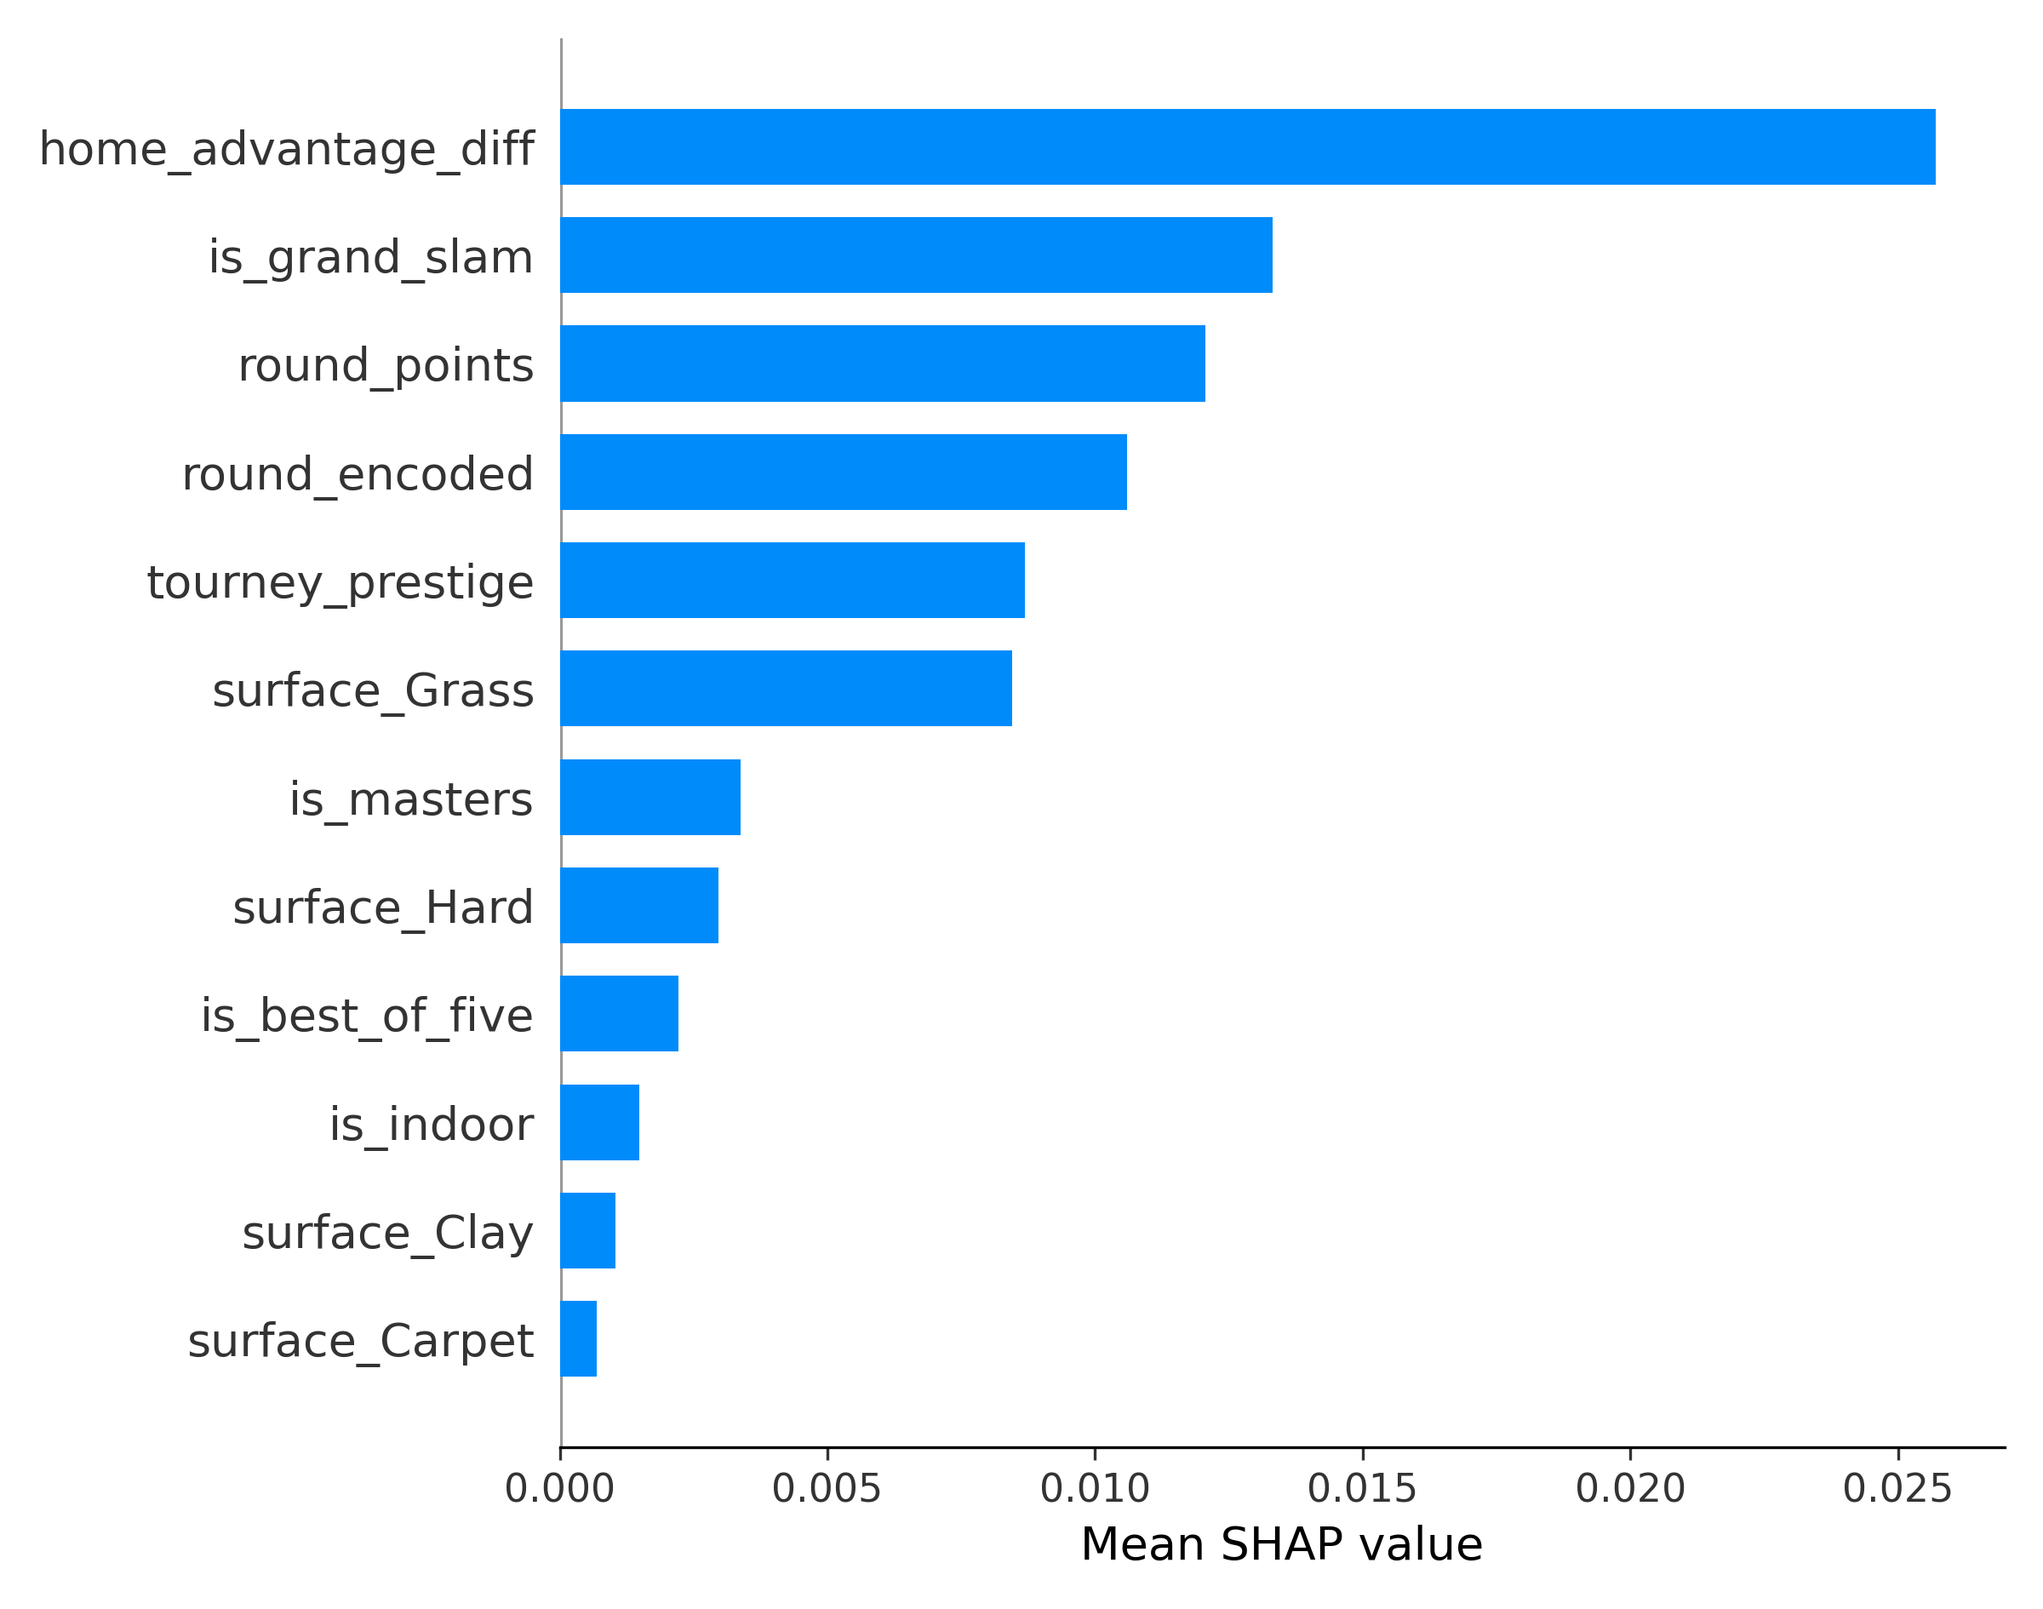
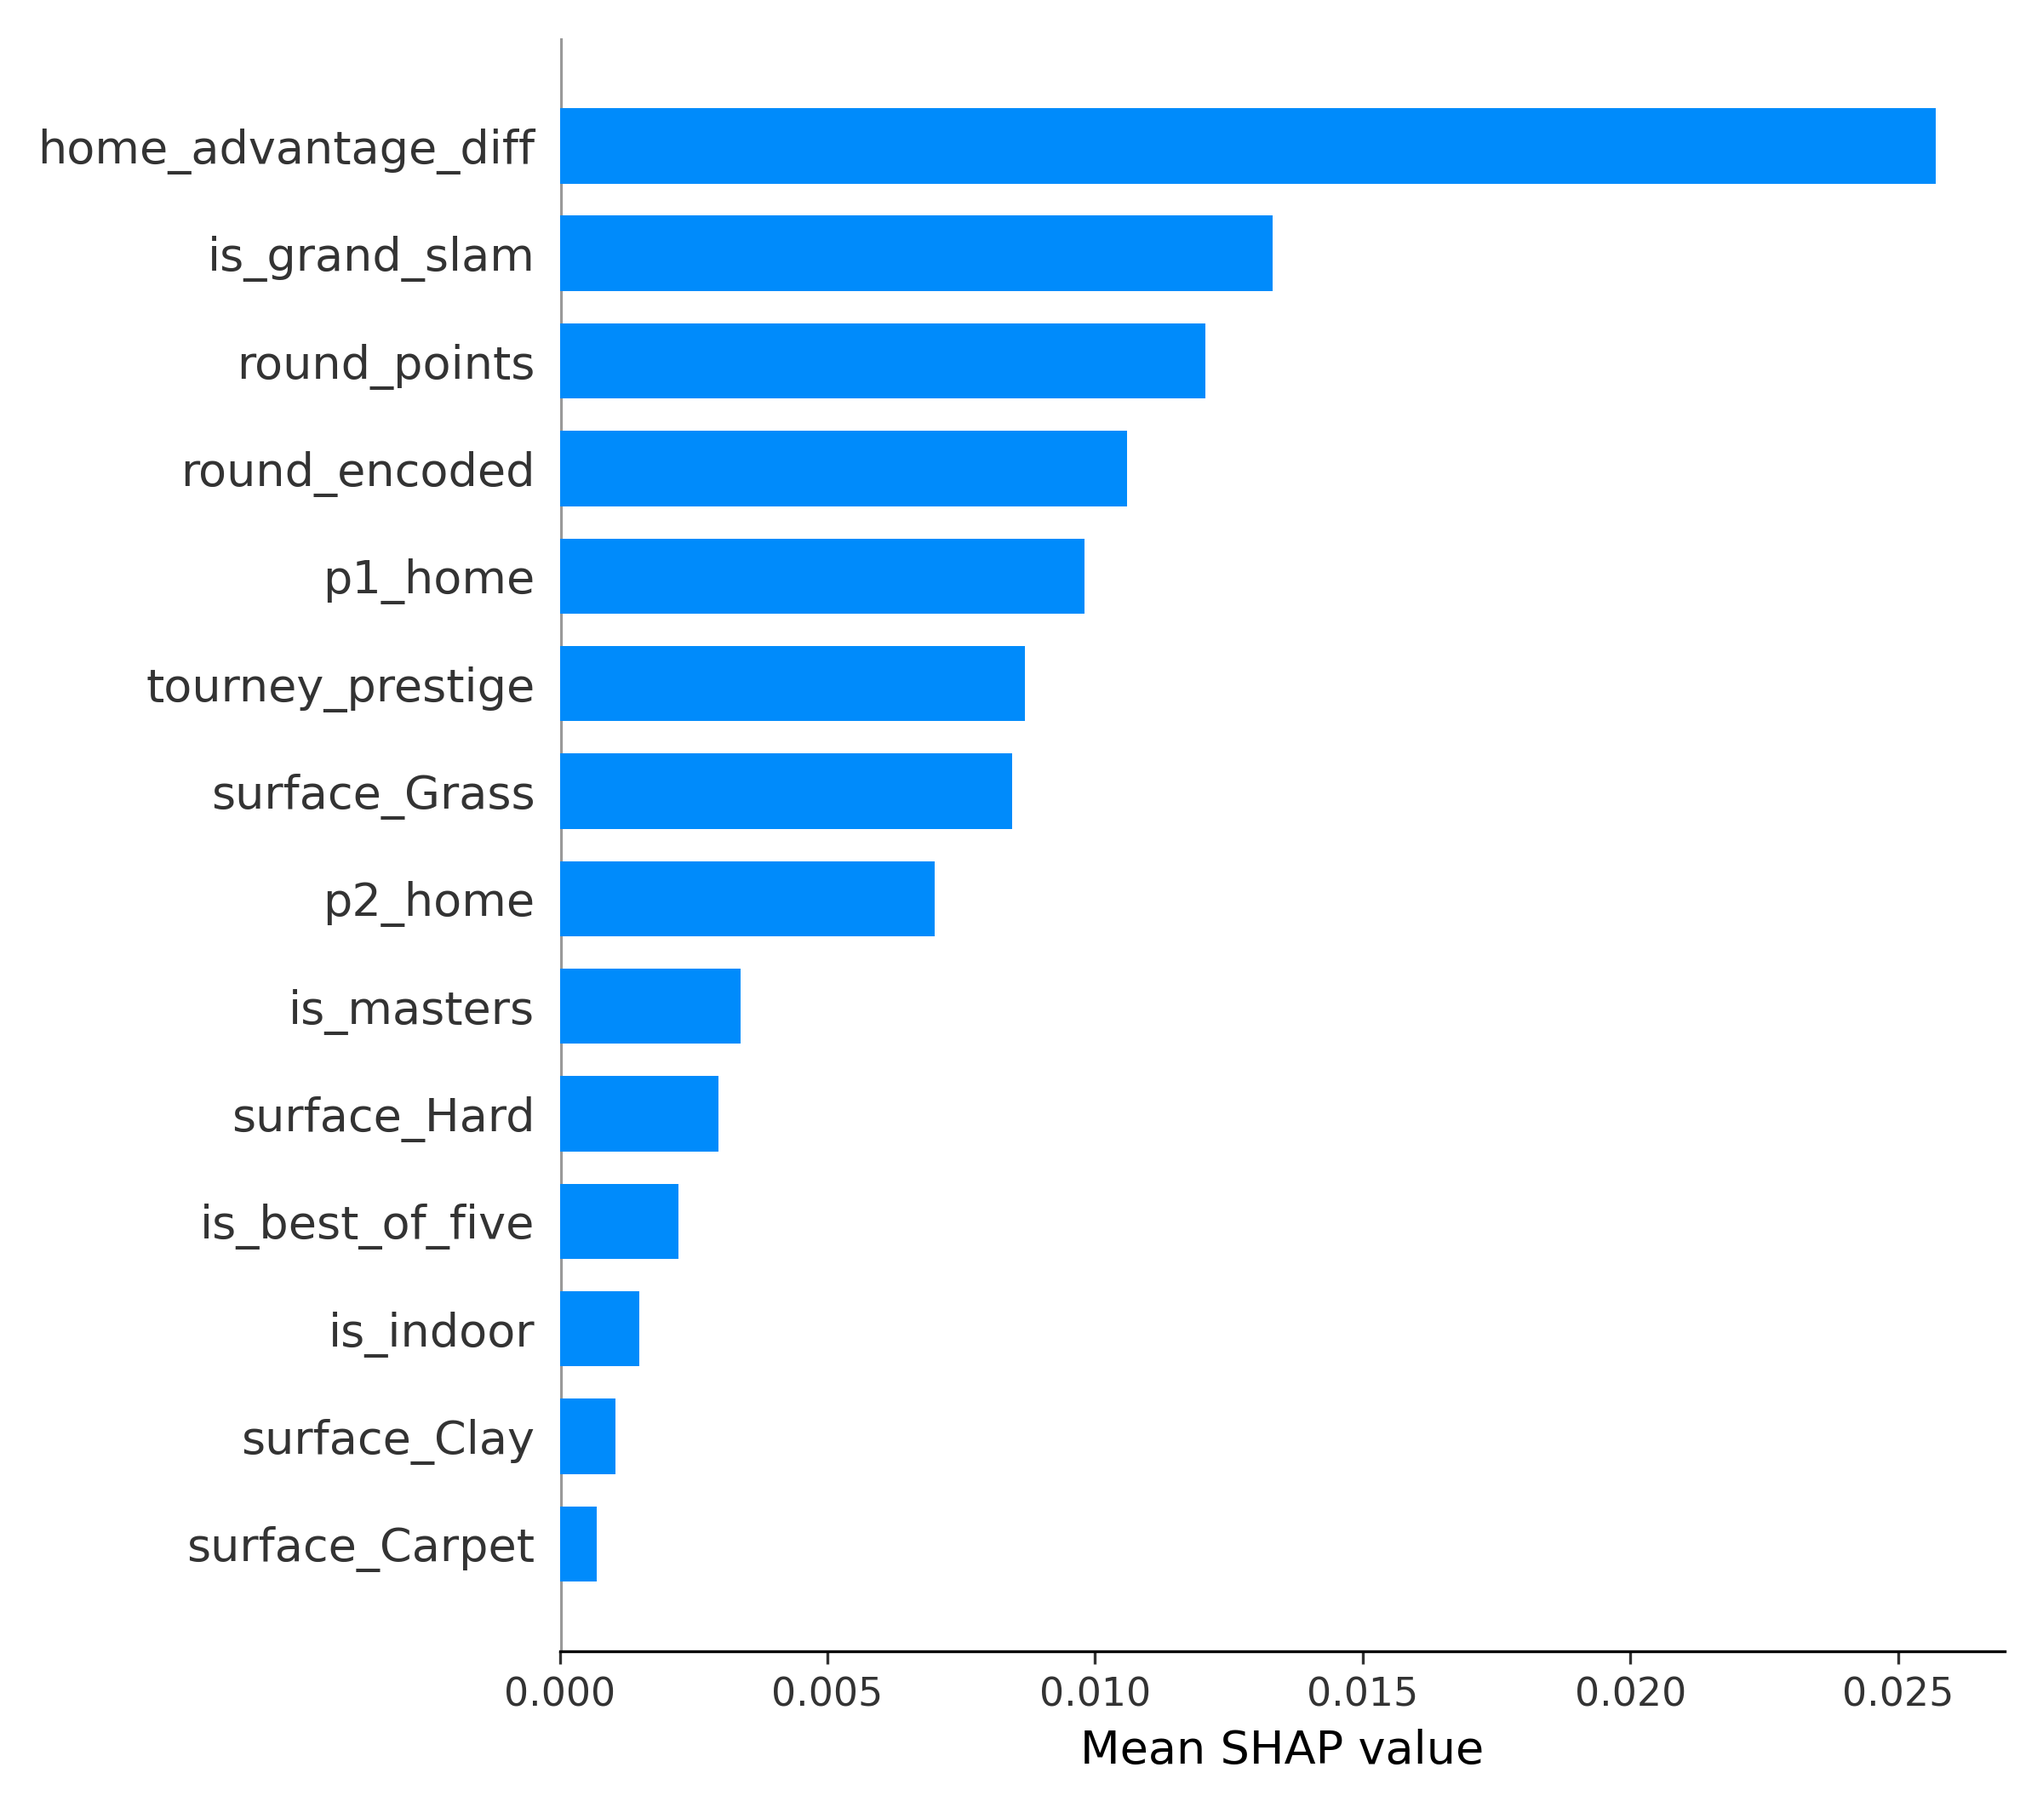
fixed feature groups

diff --git a/src/model_training/shap_modular.py b/src/model_training/shap_modular.py
@@ -41,28 +41,82 @@ def compute_global_shap(explainer, X):
 
 
 def get_feature_groups(X):
+
+    serve_return = [
+        c for c in X
+        if (
+                "serve" in c
+                or "return" in c
+                or "hold" in c
+                or "aces_per_game" in c
+                or "double_fault" in c
+        )
+    ]
+
+    pressure = [
+        c for c in X
+        if (
+                "pressure" in c
+                or "bp_save" in c
+                or "bp_conversion" in c
+        )
+    ]
+
     return {
-        "Ranking & Profile": [
-            "rank_diff","rank_points_diff",
-            "p1_rank","p2_rank","p1_age","p2_age","p1_ht","p2_ht",
-            "age_diff","height_diff"
+
+        "Ranking": [
+            "p1_rank", "p2_rank",
+            "rank_diff",
+            "p1_rank_points", "p2_rank_points",
+            "rank_points_diff",
         ],
+
+        "Profile": [
+            "p1_age", "p2_age", "age_diff",
+            "p1_ht", "p2_ht", "height_diff",
+            "p1_lefty", "p2_lefty", "lefty_diff",
+        ],
+
         "Elo Ratings": [
-            "elo_global_diff","p1_elo_global","p2_elo_global",
-            "elo_surface_diff","p1_elo_surface","p2_elo_surface"
+            "p1_elo_global", "p2_elo_global", "elo_global_diff",
+            "p1_elo_surface", "p2_elo_surface", "elo_surface_diff",
         ],
-        "Form – All Surfaces (5)": [c for c in X.columns if "form_all_5" in c],
-        "Form – Same Surface (5)": [c for c in X.columns if "form_same_5" in c],
+
+        "Serve & Return": serve_return,
+
+        "Pressure Performance": pressure,
+
+        "Form – All Surfaces": [
+            c for c in X
+            if (
+                    "form_all_5" in c
+                    and c not in serve_return
+                    and c not in pressure
+            )
+        ],
+
+        "Form – Same Surface": [
+            c for c in X
+            if (
+                    "form_same_5" in c
+                    and c not in serve_return
+                    and c not in pressure
+            )
+        ],
+
         "Fatigue": [
-            "p1_fatigue_pre","p2_fatigue_pre",
-            "p1_fatigue_in","p2_fatigue_in"
+            "p1_fatigue_pre", "p2_fatigue_pre",
+            "p1_fatigue_in", "p2_fatigue_in",
         ],
+
         "Context": [
-            c for c in X.columns
-            if c.startswith("surface_")
-               or c in ["is_grand_slam","is_masters","is_best_of_five",
-                        "is_indoor","home_advantage_diff",
-                        "round_encoded","tourney_prestige","round_points"]
+            c for c in X
+            if c in [
+                "is_grand_slam", "is_masters", "is_best_of_five",
+                "is_indoor", "round_encoded",
+                "tourney_prestige", "round_points",
+                "p1_home", "p2_home", "home_advantage_diff",
+            ] or c.startswith("surface_")
         ],
     }
 
@@ -153,4 +207,4 @@ def main(save_graphs=False, compute_global=False):
 
 
 if __name__ == "__main__":
-    main()
+    main(save_graphs=True, compute_global=True)
